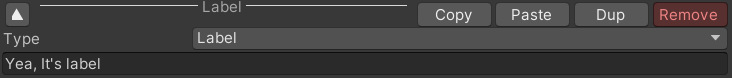
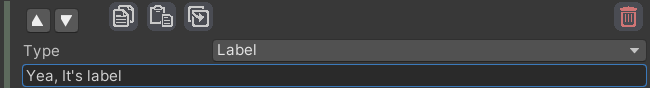
Update documentation

diff --git a/DocumentBuilder/Editor/SODocInformationEditor.cs b/DocumentBuilder/Editor/SODocInformationEditor.cs
@@ -14,12 +14,12 @@ namespace DocumentBuilder
         private bool isLoadTemplate = false;
         private bool isEditTemplate = false;
         private bool doubleCheck = false;
+        private bool hotkeyState = false;
         private int isAutoCreateSubpage = -1;
         private string autoCreateSubpageName = "";
         private string templateName = "";
         private string[] allTemplate;
         private DocComponent backup = null;
-        private Vector2 scrollView = new Vector2();
         private void OnEnable()
         {
             isSaveTemplate = false;
@@ -38,44 +38,45 @@ namespace DocumentBuilder
 
             if (m_target == null)
                 m_target = target as SODocInformation;
-
-
-            scrollView = EditorGUILayout.BeginScrollView(scrollView);
-
             #region Hotkey
-            if (Event.current.control && Event.current.type == EventType.KeyDown)
+            if (Event.current.control && !hotkeyState)
             {
-                if(Event.current.keyCode == KeyCode.S)
+                EditorGUIUtility.editingTextField = false;
+                if (Event.current.keyCode == KeyCode.S)
+                {
                     selectingComponent = -1;
-                if (Event.current.keyCode == KeyCode.C)
+                    hotkeyState = true;
+                }
+                if (Event.current.keyCode == KeyCode.Q)
                     if (lastSelectingComponent != -1)
                     {
                         var temp = new DocComponent(backup);
                         backup = new DocComponent(m_target.Components[lastSelectingComponent]);
                         m_target.Components[lastSelectingComponent] = temp;
+                        hotkeyState = true;
                     }
                 if(Event.current.keyCode == KeyCode.UpArrow)
-                {
                     if(selectingComponent > 0)
                     {
                         var temp = m_target.Components[selectingComponent];
                         m_target.Components[selectingComponent] = m_target.Components[selectingComponent - 1];
                         m_target.Components[selectingComponent - 1] = temp;
                         selectingComponent--;
+                        hotkeyState = true;
                     }
-                }
                 if(Event.current.keyCode == KeyCode.DownArrow)
-                {
                     if (selectingComponent < m_target.Components.Count-1)
                     {
                         var temp = m_target.Components[selectingComponent];
                         m_target.Components[selectingComponent] = m_target.Components[selectingComponent + 1];
                         m_target.Components[selectingComponent + 1] = temp;
                         selectingComponent++;
+                        hotkeyState = true;
                     }
-                }
             }
 
+            if (Event.current.type == EventType.KeyUp)
+                hotkeyState = false;
             m_target.Name = EditorGUILayout.TextField("Name", m_target.Name);
             m_target.DocType = (SODocInformation.DocumentType)EditorGUILayout.EnumPopup("Document Icon Type", m_target.DocType);
 
@@ -387,8 +388,8 @@ namespace DocumentBuilder
                     rect = GUILayoutUtility.GetLastRect();
                     DisableGroup(selectingComponent != i, () =>
                     {
+                        // Allow Edit
                         if (selectingComponent == i)
-                        {
                             HorizontalGroup(() =>
                             {
                                 if (i != 0)
@@ -402,9 +403,7 @@ namespace DocumentBuilder
                                     }
                                 }
                                 else
-                                {
-                                    GUILayout.Label("", GUILayout.Width(20), GUILayout.Height(20));
-                                }
+                                    GUILayoutUtility.GetRect(0,0, GUILayout.Width(20), GUILayout.Height(20));
                                 if (i != m_target.Components.Count - 1)
                                 {
                                     if (GUILayout.Button("▼", GUILayout.Width(20), GUILayout.Height(20)))
@@ -415,12 +414,13 @@ namespace DocumentBuilder
                                         selectingComponent++;
                                     }
                                 }
-
-                                Rect btnRect = GUILayoutUtility.GetLastRect();
+                                else
+                                    GUILayoutUtility.GetRect(0, 0, GUILayout.Width(20), GUILayout.Height(20));
+                                Rect btnRect = GUILayoutUtility.GetRect(0,0,GUILayout.Width(25),GUILayout.Height(25));
                                 btnRect.y -= 3;
-                                btnRect.height = 25;
-                                btnRect.width = 25;
-                                btnRect.x = btnRect.xMax + 10;
+                                btnRect.x -= 5;
+
+                                btnRect.x = btnRect.xMax;
                                 if (TextureButton(btnRect,Icon.Copy))
                                 {
                                     GUIUtility.systemCopyBuffer = m_target.Components[i].ToString();
@@ -442,7 +442,11 @@ namespace DocumentBuilder
                                     selectingComponent++;
                                 }
 
-                                btnRect.x =  EditorGUIUtility.currentViewWidth - 43;
+
+                                GUILayout.Label("");
+                                btnRect = GUILayoutUtility.GetRect(0, 0, GUILayout.Width(25), GUILayout.Height(25));
+                                btnRect.y -= 3;
+                                btnRect.x -= 5;
                                 if (TextureButton(btnRect, Icon.Delete))
                                 {
                                     m_target.Components.RemoveAt(i);
@@ -451,11 +455,11 @@ namespace DocumentBuilder
                                     lastSelectingComponent = -1;
                                 }
                             });
-                        }
                         if (i < m_target.Components.Count && i >= 0)
                             m_target.Components[i] = DocComponentLayout.DocComponentField(m_target.Components[i], selectingComponent == i);
+
                         if(selectingComponent == i)
-                            EditorGUILayout.Space(20);
+                            EditorGUILayout.Space(15);
                         
                     });
                     rect.y = rect.yMax;
@@ -463,11 +467,13 @@ namespace DocumentBuilder
                     rect.height = GUILayoutUtility.GetRect(0,15).y - rect.y;
                     if (selectingComponent != i)
                     {
+                        // check if click component
                         if (GUI.Button(rect, "", new GUIStyle()))
                         {
                             selectingComponent = i;
                             selectingRect = rect;
                             backup = new DocComponent(m_target.Components[selectingComponent]);
+                            EditorGUIUtility.editingTextField = false;
                         }
                         EditorGUI.DrawRect(new Rect(rect.x - 12, rect.y - 3, 6, rect.height + 6), new Color(.8f,.8f,1f,0.25f));
                     }
@@ -485,6 +491,7 @@ namespace DocumentBuilder
                             DocComponent newComponent = new DocComponent();
                             m_target.Components.Insert(i+1, newComponent);
                             selectingComponent++;
+                            EditorGUIUtility.editingTextField = false;
                         }
                     }
                 }
@@ -504,7 +511,6 @@ namespace DocumentBuilder
             });
             #endregion
 
-            EditorGUILayout.EndScrollView();
 
             if (selectingComponent != -1)
                 lastSelectingComponent = selectingComponent;

diff --git a/DocumentBuilder/Editor/DocumentBuilderWindow.cs b/DocumentBuilder/Editor/DocumentBuilderWindow.cs
@@ -34,13 +34,15 @@ namespace DocumentBuilder
         private SODocInformation searchDocument; // use to display search result
         private bool isEditMode = false;
         private bool isOpenMenu = true;
+        private bool hotkeyState = false;
         private Editor editingDocument;
+        private Color littleTitleColor = ColorSet.Information;
         private void OnEnable()
         {
             menuStyle.normal.textColor = ColorSet.Default;
             minSize = new Vector2(500, 100);
             Instance = this;
-
+            littleTitleColor.a = .65f;
             Data.Load();
             selectBookIcon = AssetDatabase.LoadAssetAtPath<Texture2D>(DocumentBuilderData.Path.DocumentBuilderRoot + "/Editor/DocAsset/DefaultMenuIcon/Gear.png");
             searchIcon = AssetDatabase.LoadAssetAtPath<Texture2D>(DocumentBuilderData.Path.DocumentBuilderRoot + "/Editor/DocAsset/DefaultMenuIcon/Search.png");
@@ -78,13 +80,17 @@ namespace DocumentBuilder
             #endregion
 
             #region Edit Mode
-            if (GUI.Button(new Rect(position.width - 60, 5, 45, 20), isEditMode ? "Edit" : "View"))
+            if (GUI.Button(new Rect(position.width - 60, 5, 45, 20), isEditMode ? "Edit" : "View") ||
+                (Event.current.control && Event.current.keyCode == KeyCode.E && !hotkeyState))
             {
                 isEditMode = !isEditMode;
                 if (isEditMode)
                     editingDocument = Editor.CreateEditor(Data.SelectingDocInfo);
+                hotkeyState = true;
+                return;
             }
-
+            if (Event.current.type == EventType.KeyUp)
+                hotkeyState = false;
             #endregion
 
             #region Menu and Information Layout
@@ -139,7 +145,6 @@ namespace DocumentBuilder
                 {
                     if( isEditMode)
                     {
-                        EditorGUILayout.Space(25);
                         HorizontalGroup(() =>
                         {
                             EditorGUILayout.LabelField("- Editing Target ", GUILayout.Width(105));
@@ -147,10 +152,25 @@ namespace DocumentBuilder
                             EditorGUILayout.ObjectField(Data.SelectingDocInfo, typeof(SODocInformation), false, GUILayout.Width(350));
                             EditorGUI.EndDisabledGroup();
                         });
-                        editingDocument.OnInspectorGUI();
+                        infoViewPosition = EditorGUILayout.BeginScrollView(infoViewPosition);
+                        HorizontalGroup(() =>
+                        {
+                            GUILayout.Space(5);
+                            VerticalGroup(() =>
+                            {
+                                editingDocument.OnInspectorGUI();
+                            });
+                        });
+                        EditorGUILayout.EndScrollView();
                     }
                     else
                     {
+                        ColorRegion(littleTitleColor, () =>
+                        {
+                            EditorGUI.indentLevel = 0;
+                            EditorGUILayout.LabelField(Data.SelectingDocInfo.Name);
+                        });
+
                         infoViewPosition = EditorGUILayout.BeginScrollView(infoViewPosition);
                         drawDocInformation();
                         GUILayoutUtility.GetRect(0, 120);
@@ -199,7 +219,7 @@ namespace DocumentBuilder
             }
 
             #endregion
-
+            Repaint();
             // Save data if isDirty
             if (isDirty)
             {
@@ -357,14 +377,6 @@ namespace DocumentBuilder
         /// </summary>
         private void drawDocInformation()
         {
-            Color color = ColorSet.Information;
-            color.a = .65f;
-            ColorRegion(color, () =>
-            {
-                EditorGUI.indentLevel = 0;
-                EditorGUILayout.LabelField(Data.SelectingDocInfo.Name);
-            });
-
             EditorGUI.indentLevel++;
             EditorGUILayout.Space(5);
             foreach (var doc in Data.SelectingDocInfo.Components)

diff --git a/DocumentBuilder/Editor/DocComponentLayout.cs b/DocumentBuilder/Editor/DocComponentLayout.cs
@@ -84,6 +84,16 @@ namespace DocumentBuilder
                     if (scale < 0) scale = 0;
                     docComponent.Text[0] = scale.ToString();
                     docComponent.Picture = (Texture2D)EditorGUILayout.ObjectField("Picture", docComponent.Picture, typeof(Texture2D), false, GUILayout.Height(18));
+                    Vector2 imageSize = new Vector2(docComponent.Picture.width, docComponent.Picture.height);
+                    scale = (float)(imageSize.y / imageSize.x);
+                    imageSize.x *= float.Parse(docComponent.Text[0], numberFormat);
+                    imageSize.y = imageSize.x * scale;
+                    Rect rect = GUILayoutUtility.GetRect(imageSize.x, imageSize.y + 8);
+                    rect.width = imageSize.x;
+                    rect.height = imageSize.y;
+                    rect.x += (EditorGUI.indentLevel + 1) * 15f;
+                    rect.y += 4;
+                    GUI.DrawTexture(rect, docComponent.Picture);
                 }
                 else if (DocComponentType.Label == docComponent.ComponentType)
                 {
@@ -309,13 +319,12 @@ namespace DocumentBuilder
                                 height[i] = 22 + (14 * (lines.Length - 1));
                         }
                     }
-
-                    Rect rowRect = GUILayoutUtility.GetRect(0, 0);
+                    Rect rowRect = EditorGUILayout.GetControlRect(false,0);
                     rowRect.y = rowRect.yMax + 5;
                     rowRect.height = 20;
                     for (int i = 0; i < docComponent.Text.Count; i++)
                     {
-                        rowRect.x = 25;
+                        rowRect.x = 40;
                         string[] contents = docComponent.Text[i].Split("%column%");
                         Rect colRect = rowRect;
                         for (int j = 0; j < contents.Length; j++)
@@ -324,16 +333,17 @@ namespace DocumentBuilder
                             colRect.width = width[j];
                             string[] lines = contents[j].Split("\\n");
                             colRect.y += (height[i] - 18 * lines.Length) / 2f;
+
                             for (int l = 0; l < lines.Length; l++)
                             {
-                                EditorGUI.LabelField(colRect, lines[l]);
-                                EditorGUITool.DrawRectangle(new Rect(colRect.x + 12f, rowRect.y + 0.5f, width[j], height[i]), EditorGUITool.ColorSet.LightGray, .5f);
+                                GUI.Label(colRect, lines[l]);
+                                EditorGUITool.DrawRectangle(new Rect(colRect.x -5f, rowRect.y + 0.5f, width[j], height[i]), EditorGUITool.ColorSet.LightGray, .5f);
                                 colRect.y += 14;
                             }
                             colRect.x += width[j];
                         }
                         rowRect.y += height[i];
-                        EditorGUILayout.LabelField("", GUILayout.Height(height[i]), GUILayout.Width(colRect.x + 18));
+                        GUILayoutUtility.GetRect(0,0, GUILayout.Height(height[i]+3), GUILayout.Width(colRect.x + 18));
                     }
                 }
                 else if (DocComponentType.DividerLine == docComponent.ComponentType)
